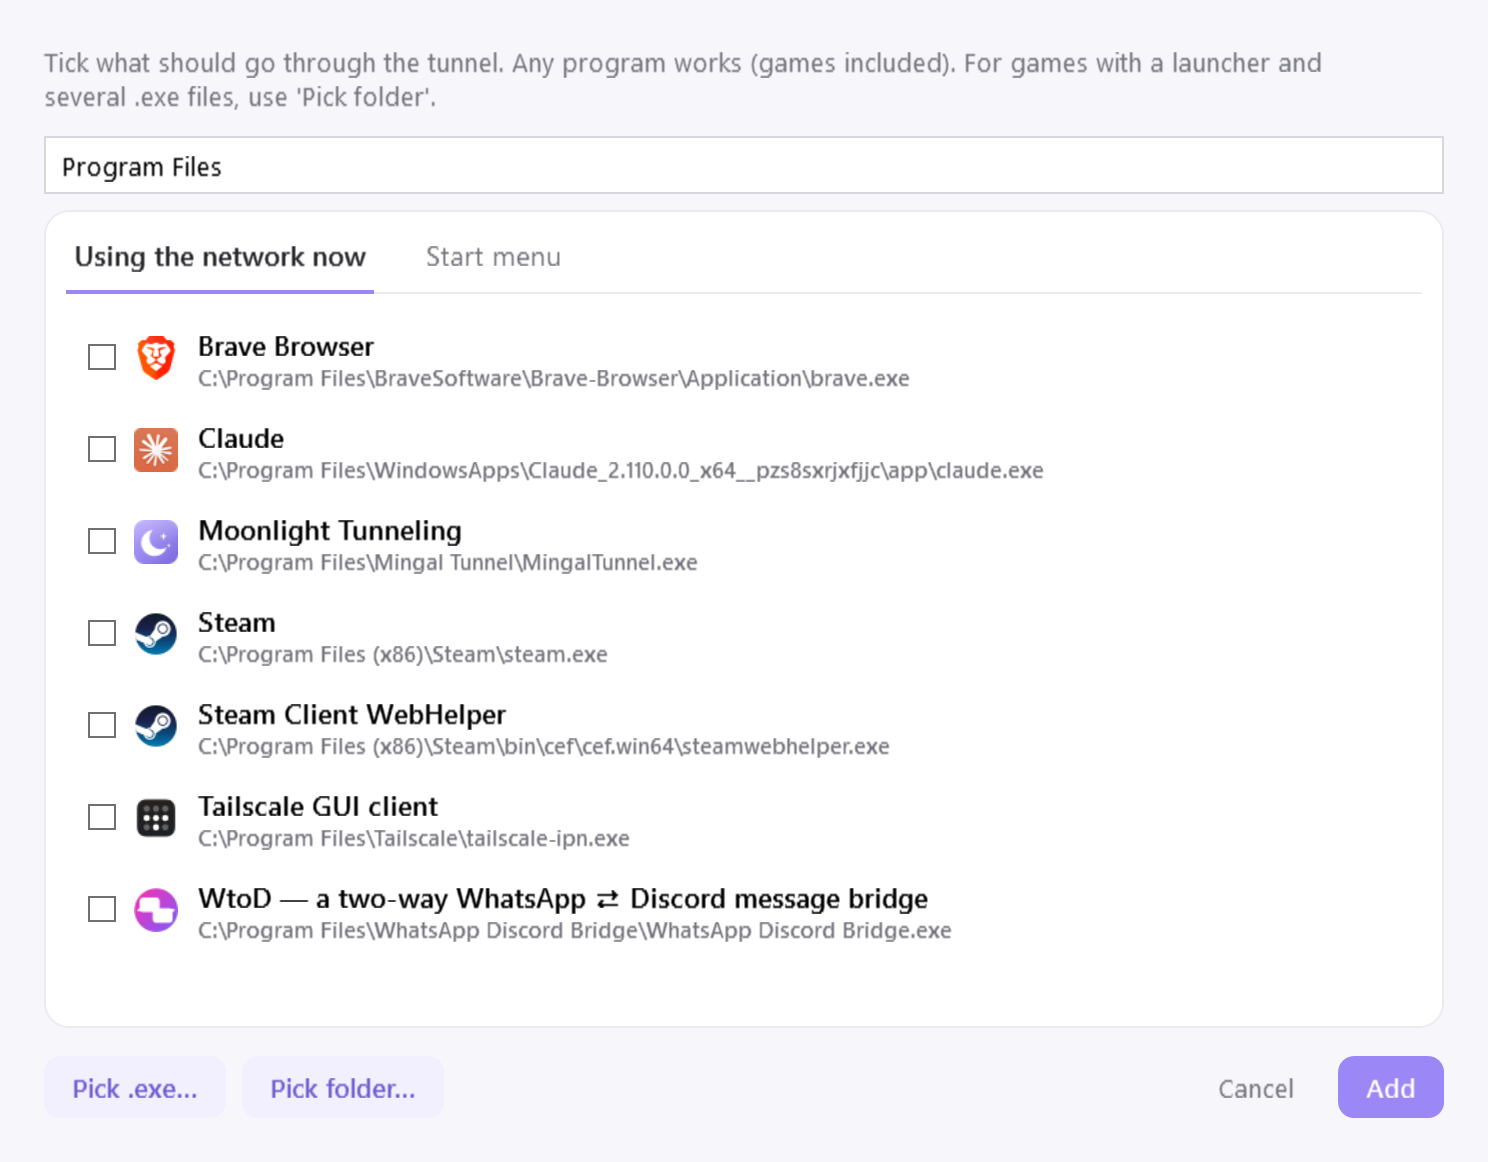
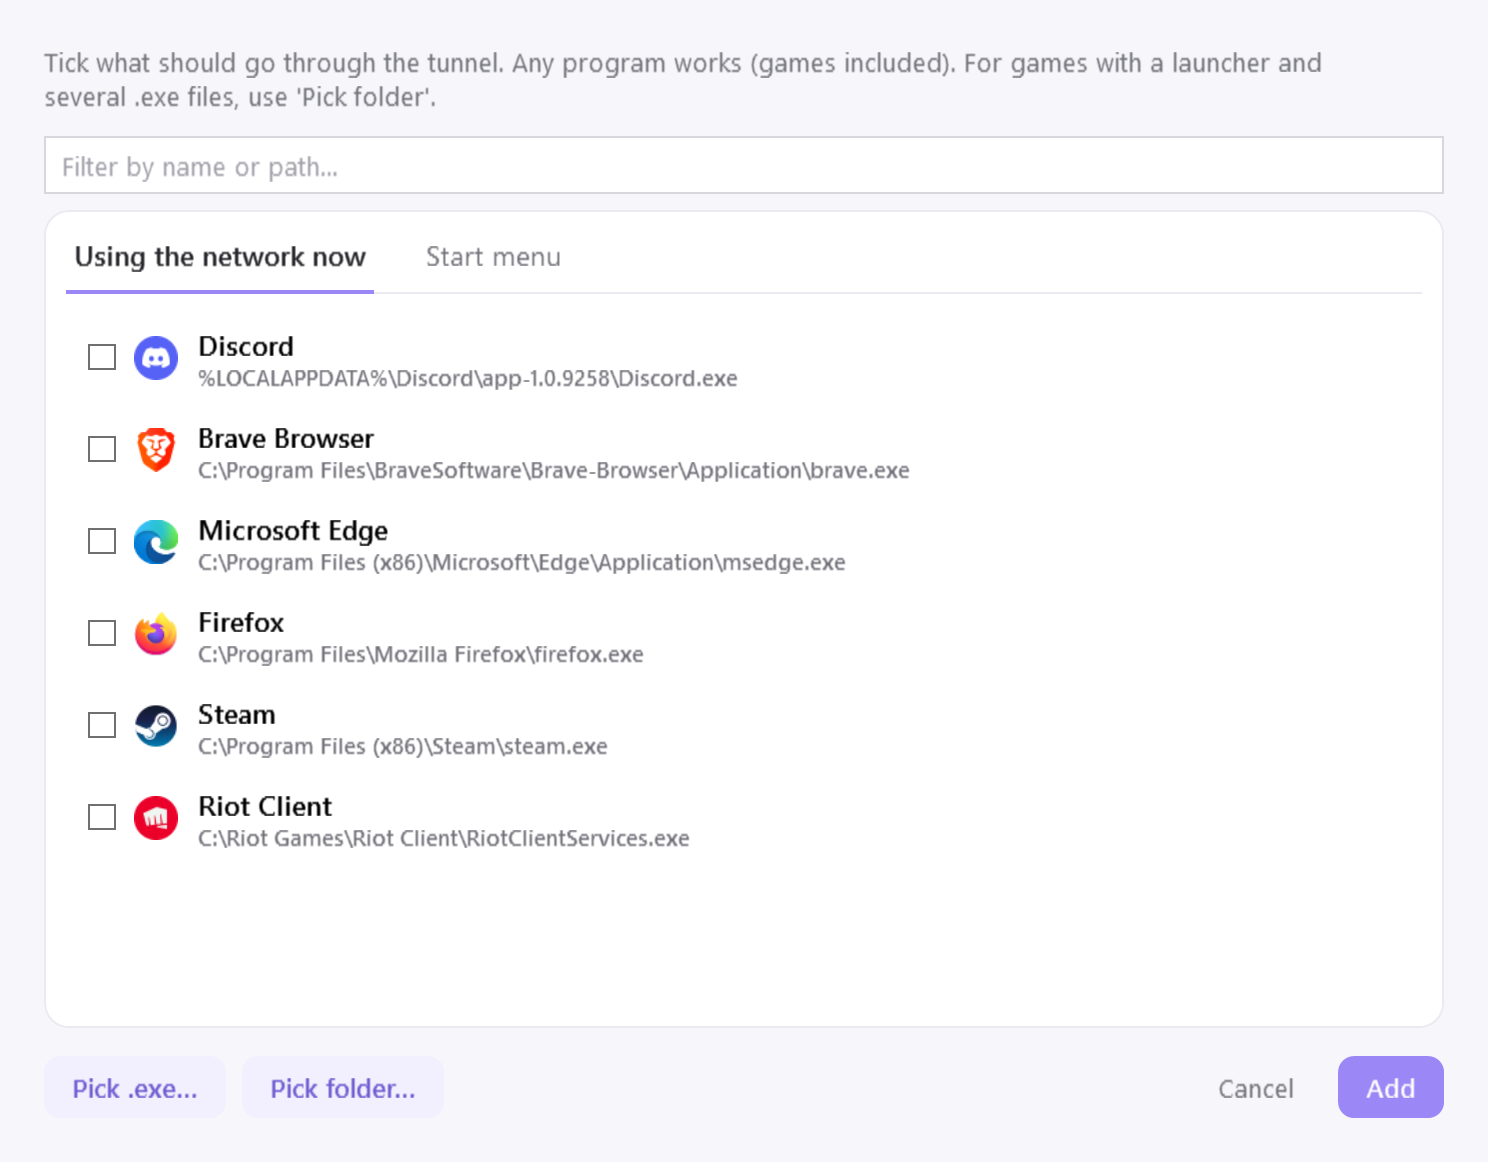
Code review cleanup
- Remove the exit-IP check code left behind when its card was removed
  (view model state, command, public IP lookup in IpCheck).
- Remove other unused members: KillSwitch.EngagedCount, ShellLinks.Create,
  AllowUnsafeBlocks on Platform.
- Translate a leftover Portuguese log prefix; drop old names from the
  rule-set placeholder and the autostart temp file.
- Theme resource keys renamed Pink* -> Accent* to match the palette.
- EnumProcesses buffer grows instead of silently capping at 4096 PIDs.
- Supervisor disposes its network-change timer; unobserved background task
  failures are logged.
- Build is warning-free (xUnit2008, WFO0003 with rationale).
- README 'Add app' screenshot lists well-known apps only.

diff --git a/src/MoonlightTunneling.App/Theme.xaml b/src/MoonlightTunneling.App/Theme.xaml
@@ -1,10 +1,10 @@
 <ResourceDictionary xmlns="http://schemas.microsoft.com/winfx/2006/xaml/presentation"
                     xmlns:x="http://schemas.microsoft.com/winfx/2006/xaml">
 
-    <!-- Brand palette: pastel purple. Key names are historical. -->
-    <SolidColorBrush x:Key="Pink" Color="#9B87F5" />
-    <SolidColorBrush x:Key="PinkDark" Color="#6F5DD3" />
-    <SolidColorBrush x:Key="PinkSoft" Color="#F2EFFE" />
+    <!-- Brand palette: pastel purple -->
+    <SolidColorBrush x:Key="Accent" Color="#9B87F5" />
+    <SolidColorBrush x:Key="AccentDark" Color="#6F5DD3" />
+    <SolidColorBrush x:Key="AccentSoft" Color="#F2EFFE" />
     <SolidColorBrush x:Key="InfoBg" Color="#EEEAFD" />
     <SolidColorBrush x:Key="InfoText" Color="#5746A8" />
     <SolidColorBrush x:Key="WarnBg" Color="#FDF3E1" />
@@ -80,14 +80,14 @@
     </Style>
 
     <Style x:Key="PrimaryButton" TargetType="Button" BasedOn="{StaticResource BaseButton}">
-        <Setter Property="Background" Value="{StaticResource Pink}" />
+        <Setter Property="Background" Value="{StaticResource Accent}" />
         <Setter Property="Foreground" Value="White" />
         <Setter Property="FontWeight" Value="SemiBold" />
     </Style>
 
     <Style x:Key="SecondaryButton" TargetType="Button" BasedOn="{StaticResource BaseButton}">
-        <Setter Property="Background" Value="{StaticResource PinkSoft}" />
-        <Setter Property="Foreground" Value="{StaticResource PinkDark}" />
+        <Setter Property="Background" Value="{StaticResource AccentSoft}" />
+        <Setter Property="Foreground" Value="{StaticResource AccentDark}" />
         <Setter Property="FontWeight" Value="SemiBold" />
     </Style>
 
@@ -99,7 +99,7 @@
 
     <Style x:Key="HeaderButton" TargetType="Button" BasedOn="{StaticResource BaseButton}">
         <Setter Property="Background" Value="White" />
-        <Setter Property="Foreground" Value="{StaticResource PinkDark}" />
+        <Setter Property="Foreground" Value="{StaticResource AccentDark}" />
         <Setter Property="FontWeight" Value="Bold" />
         <Setter Property="FontSize" Value="14" />
         <Setter Property="Padding" Value="22,10" />
@@ -124,7 +124,7 @@
                             <Setter TargetName="Chevron" Property="Text" Value="&#xE70D;" />
                         </Trigger>
                         <Trigger Property="IsMouseOver" Value="True">
-                            <Setter TargetName="Bd" Property="Background" Value="{StaticResource PinkSoft}" />
+                            <Setter TargetName="Bd" Property="Background" Value="{StaticResource AccentSoft}" />
                         </Trigger>
                     </ControlTemplate.Triggers>
                 </ControlTemplate>
@@ -147,7 +147,7 @@
                     </StackPanel>
                     <ControlTemplate.Triggers>
                         <Trigger Property="IsChecked" Value="True">
-                            <Setter TargetName="Track" Property="Background" Value="{StaticResource Pink}" />
+                            <Setter TargetName="Track" Property="Background" Value="{StaticResource Accent}" />
                             <Setter TargetName="Thumb" Property="HorizontalAlignment" Value="Right" />
                             <Setter TargetName="Thumb" Property="Margin" Value="0,0,3,0" />
                         </Trigger>
@@ -204,7 +204,7 @@
                     </Border>
                     <ControlTemplate.Triggers>
                         <Trigger Property="IsSelected" Value="True">
-                            <Setter TargetName="Bd" Property="BorderBrush" Value="{StaticResource Pink}" />
+                            <Setter TargetName="Bd" Property="BorderBrush" Value="{StaticResource Accent}" />
                             <Setter Property="Foreground" Value="{StaticResource Ink}" />
                             <Setter Property="FontWeight" Value="SemiBold" />
                         </Trigger>

diff --git a/src/MoonlightTunneling.App/MainWindow.xaml b/src/MoonlightTunneling.App/MainWindow.xaml
@@ -93,7 +93,7 @@
                     </Border>
 
                     <Border Grid.Row="3" Style="{StaticResource CardBorder}" Margin="0,12,0,0"
-                            Background="{StaticResource PinkSoft}" BorderBrush="{StaticResource Pink}"
+                            Background="{StaticResource AccentSoft}" BorderBrush="{StaticResource Accent}"
                             Visibility="{Binding HasDiscord, Converter={StaticResource BoolVis}}">
                         <DockPanel>
                             <Button DockPanel.Dock="Left" Style="{StaticResource PrimaryButton}" Content="Go Live boost" MinWidth="150"
@@ -216,7 +216,7 @@
                     </Grid.RowDefinitions>
                     <DockPanel>
                         <Button Style="{StaticResource PrimaryButton}" Content="Import .conf" Command="{Binding ImportProfileCommand}" DockPanel.Dock="Left" />
-                        <Button Style="{StaticResource GhostButton}" Content="Where do I get a Proton .conf?" Command="{Binding ProtonConfLinkCommand}" DockPanel.Dock="Right" Foreground="{StaticResource PinkDark}" />
+                        <Button Style="{StaticResource GhostButton}" Content="Where do I get a Proton .conf?" Command="{Binding ProtonConfLinkCommand}" DockPanel.Dock="Right" Foreground="{StaticResource AccentDark}" />
                         <TextBlock Style="{StaticResource Hint}" VerticalAlignment="Center" Margin="14,0"
                                    Text="Any WireGuard works: Proton, Mullvad, AirVPN, your own server… The private key is encrypted for your Windows user." />
                     </DockPanel>
@@ -239,9 +239,9 @@
                                                 <StackPanel Orientation="Horizontal">
                                                     <TextBox Text="{Binding Name, UpdateSourceTrigger=LostFocus}" FontSize="15" FontWeight="SemiBold" MinWidth="260" BorderThickness="0,0,0,1" Background="Transparent"
                                                              ToolTip="Click to rename" />
-                                                    <Border Background="{StaticResource PinkSoft}" CornerRadius="10" Padding="8,2" Margin="10,0,0,0" VerticalAlignment="Center"
+                                                    <Border Background="{StaticResource AccentSoft}" CornerRadius="10" Padding="8,2" Margin="10,0,0,0" VerticalAlignment="Center"
                                                             Visibility="{Binding IsActive, Converter={StaticResource BoolVis}}">
-                                                        <TextBlock Text="in use" Foreground="{StaticResource PinkDark}" FontWeight="SemiBold" FontSize="11" />
+                                                        <TextBlock Text="in use" Foreground="{StaticResource AccentDark}" FontWeight="SemiBold" FontSize="11" />
                                                     </Border>
                                                 </StackPanel>
                                                 <TextBlock Text="{Binding EndpointText}" Style="{StaticResource Hint}" Margin="0,6,0,0" />

diff --git a/src/MoonlightTunneling.App/ViewModels/MainViewModel.cs b/src/MoonlightTunneling.App/ViewModels/MainViewModel.cs
@@ -21,9 +21,7 @@ public sealed class MainViewModel : ObservableObject
 
     private string _statusTitle = "Off", _statusDetail = "The tunnel is off. No app goes through the VPN.";
     private Brush _statusBrush = Palette.Gray;
-    private string _latencyText = "—", _vpnIp = "—", _directIp = "—", _ipVerdict = "Click Check to compare the VPN exit IP with your normal IP.";
-    private Brush _ipVerdictBrush = Palette.Gray;
-    private bool _checkingIp;
+    private string _latencyText = "—";
     private string? _killSwitchBanner;
     private int _selectedTab;
     private ProfileItem? _activeProfile;
@@ -56,7 +54,6 @@ public sealed class MainViewModel : ObservableObject
         _tunnel.LatencyChanged += ms => _ui.BeginInvoke(() => LatencyText = ms is int v ? $"{v} ms" : "no response");
 
         ToggleTunnelCommand = new AsyncCommand(ToggleTunnelAsync, () => _tunnel.State != TunnelState.Starting);
-        CheckIpCommand = new AsyncCommand(CheckIpAsync, () => !_checkingIp);
         AddAppCommand = new RelayCommand(AddApps);
         ReapplyCommand = new AsyncCommand(ReapplyAsync, () => _tunnel.IsTunUp);
         ImportProfileCommand = new RelayCommand(ImportProfiles);
@@ -84,7 +81,6 @@ public sealed class MainViewModel : ObservableObject
     public ObservableCollection<LogLine> Log { get; } = [];
 
     public ICommand ToggleTunnelCommand { get; }
-    public ICommand CheckIpCommand { get; }
     public ICommand AddAppCommand { get; }
     public ICommand ReapplyCommand { get; }
     public ICommand ImportProfileCommand { get; }
@@ -101,17 +97,12 @@ public sealed class MainViewModel : ObservableObject
     public ICommand BoostReleaseCommand { get; }
 
     // ---------- status ----------
-    public TunnelState State => _tunnel.State;
     public bool IsTunnelActive => _tunnel.IsActive;
     public string ToggleText => _tunnel.State == TunnelState.Starting ? "Connecting…" : _tunnel.IsActive ? "Turn tunnel off" : "Turn tunnel on";
     public string StatusTitle { get => _statusTitle; private set => Set(ref _statusTitle, value); }
     public string StatusDetail { get => _statusDetail; private set => Set(ref _statusDetail, value); }
     public Brush StatusBrush { get => _statusBrush; private set => Set(ref _statusBrush, value); }
     public string LatencyText { get => _latencyText; private set => Set(ref _latencyText, value); }
-    public string VpnIpText { get => _vpnIp; private set => Set(ref _vpnIp, value); }
-    public string DirectIpText { get => _directIp; private set => Set(ref _directIp, value); }
-    public string IpVerdict { get => _ipVerdict; private set => Set(ref _ipVerdict, value); }
-    public Brush IpVerdictBrush { get => _ipVerdictBrush; private set => Set(ref _ipVerdictBrush, value); }
     public string ProxyText => $"local proxy 127.0.0.1:{Settings.ProxyPort}";
     public string? KillSwitchBanner { get => _killSwitchBanner; private set { if (Set(ref _killSwitchBanner, value)) OnPropertyChanged(nameof(HasKillSwitchBanner)); } }
     public bool HasKillSwitchBanner => _killSwitchBanner != null;
@@ -491,7 +482,6 @@ public sealed class MainViewModel : ObservableObject
         StatusDetail = s == TunnelState.Stopped ? "The tunnel is off. No app goes through the VPN." : detail;
         if (s is TunnelState.Stopped or TunnelState.Failed) LatencyText = "—";
         UpdatePortHint();
-        OnPropertyChanged(nameof(State));
         OnPropertyChanged(nameof(IsTunnelActive));
         OnPropertyChanged(nameof(ToggleText));
         CommandManager.InvalidateRequerySuggested();
@@ -509,36 +499,6 @@ public sealed class MainViewModel : ObservableObject
         KillSwitchBanner = !up && blocked.Count > 0 && IsAdmin
             ? $"Kill-switch engaged: {string.Join(", ", blocked)} {(blocked.Count == 1 ? "has" : "have")} no internet until the tunnel connects."
             : null;
-    }
-
-    private async Task CheckIpAsync()
-    {
-        _checkingIp = true;
-        IpVerdict = "Checking…";
-        IpVerdictBrush = Palette.Gray;
-        try
-        {
-            var directTask = IpCheck.GetPublicIpAsync(null);
-            var vpnTask = _tunnel.IsTunUp ? IpCheck.GetPublicIpAsync(_tunnel.ProxyPort) : Task.FromResult<string?>(null);
-            var direct = await directTask;
-            var vpn = await vpnTask;
-            DirectIpText = direct ?? "failed";
-            VpnIpText = _tunnel.IsTunUp ? vpn ?? "no response" : "tunnel off";
-            (IpVerdict, IpVerdictBrush) = (vpn, direct) switch
-            {
-                (null, _) when !_tunnel.IsTunUp => ("Turn the tunnel on to see the VPN exit IP.", Palette.Gray),
-                (null, _) => ("The VPN didn't answer. Tunneled apps have no way out right now.", Palette.Red),
-                (_, null) => ("VPN is fine; couldn't read your normal IP.", Palette.Yellow),
-                var (v, d) when v == d => ("⚠ Both IPs are the same: the VPN isn't changing the exit.", Palette.Red),
-                _ => ("✔ Tunneled apps exit through a different IP. The rest of the PC stays on your normal one.", Palette.Green),
-            };
-            AppLog.Info($"Exit IP: VPN {VpnIpText} · normal {DirectIpText}.");
-        }
-        finally
-        {
-            _checkingIp = false;
-            CommandManager.InvalidateRequerySuggested();
-        }
     }
 
     // ============================================================

diff --git a/src/MoonlightTunneling.Core/IpCheck.cs b/src/MoonlightTunneling.Core/IpCheck.cs
@@ -5,15 +5,13 @@ using System.Net;
 namespace MoonlightTunneling.Core;
 
 /// <summary>
-/// The only third-party requests the app makes: the public-IP lookup the user
-/// asks for, and a tiny 204 probe through the VPN that doubles as health check.
+/// The only request the app makes on its own: a tiny 204 probe sent through the
+/// VPN, used as the health check and the latency figure.
 /// </summary>
 public static class IpCheck
 {
-    private static readonly string[] IpServices = ["https://api.ipify.org", "https://ipv4.icanhazip.com"];
     private const string ProbeUrl = "http://cp.cloudflare.com/generate_204";
 
-    private static readonly HttpClient Direct = new(new SocketsHttpHandler { UseProxy = false }) { Timeout = TimeSpan.FromSeconds(10) };
     private static readonly ConcurrentDictionary<int, HttpClient> Proxied = new();
 
     private static HttpClient ViaProxy(int port) => Proxied.GetOrAdd(port, p => new HttpClient(new SocketsHttpHandler
@@ -25,22 +23,6 @@ public static class IpCheck
         ConnectTimeout = TimeSpan.FromSeconds(6),
     })
     { Timeout = TimeSpan.FromSeconds(10) });
-
-    /// <summary>Public IP; through the local proxy (= VPN exit) when a port is given, otherwise the normal route.</summary>
-    public static async Task<string?> GetPublicIpAsync(int? proxyPort)
-    {
-        var client = proxyPort is int p ? ViaProxy(p) : Direct;
-        foreach (var url in IpServices)
-        {
-            try
-            {
-                var s = (await client.GetStringAsync(url)).Trim();
-                if (IPAddress.TryParse(s, out _)) return s;
-            }
-            catch { }
-        }
-        return null;
-    }
 
     /// <summary>Round trip of a 204 request through the VPN, in ms; null when the VPN doesn't answer.</summary>
     public static async Task<int?> MeasureLatencyAsync(int proxyPort, TimeSpan? timeout = null)

diff --git a/src/MoonlightTunneling.App/App.xaml.cs b/src/MoonlightTunneling.App/App.xaml.cs
@@ -50,6 +50,12 @@ public partial class App : Application
             AppLog.Error($"Unexpected error: {ex.GetType().Name}: {ex.Message}{inner} {where}".Trim());
             a.Handled = true;
         };
+        // Fire-and-forget work (kill-switch sync, live refresh) must never fail silently.
+        TaskScheduler.UnobservedTaskException += (_, a) =>
+        {
+            AppLog.Error("Background task failed: " + a.Exception.GetBaseException().Message);
+            a.SetObserved();
+        };
         SessionEnding += (_, _) =>
         {
             // Put kill-switch rules back before Windows ends the session, so an
@@ -141,12 +147,13 @@ public partial class App : Application
             Render(w, Path.Combine(dir, $"{names[tab]}.png"));
         }
 
-        var add = new AddAppWindow { Owner = w, WindowStartupLocation = WindowStartupLocation.Manual, Left = -4000, Top = 0, ShowInTaskbar = false };
+        // Well-known apps only, instead of everything that happens to run on the dev box.
+        var demo = AppCatalog.DetectInstalledCurated().Select(AppCatalog.IconSource).OfType<string>().ToList();
+        foreach (var extra in new[] { @"C:\Program Files (x86)\Steam\steam.exe", @"C:\Riot Games\Riot Client\RiotClientServices.exe" })
+            if (File.Exists(extra)) demo.Add(extra);
+        var add = new AddAppWindow { Owner = w, WindowStartupLocation = WindowStartupLocation.Manual, Left = -4000, Top = 0, ShowInTaskbar = false, DemoPaths = demo };
         add.Show();
-        await Task.Delay(6000);
-        // Keep the README picture to well-known apps instead of everything running on the dev box.
-        add.Filter.Text = "Program Files";
-        await Task.Delay(500);
+        await Task.Delay(2500);
         Render(add, Path.Combine(dir, "add-app.png"));
         add.Close();
         _exiting = true;

diff --git a/src/MoonlightTunneling.App/AddAppWindow.xaml.cs b/src/MoonlightTunneling.App/AddAppWindow.xaml.cs
@@ -33,6 +33,11 @@ public partial class AddAppWindow : Window
 
     public List<TunneledApp> Result { get; } = [];
 
+#if DEBUG
+    /// <summary>Screenshot mode: show these executables instead of scanning the machine.</summary>
+    public IReadOnlyList<string>? DemoPaths { get; init; }
+#endif
+
     public AddAppWindow()
     {
         InitializeComponent();
@@ -49,6 +54,15 @@ public partial class AddAppWindow : Window
         var self = Environment.ProcessPath ?? "";
         var windir = Environment.GetFolderPath(Environment.SpecialFolder.Windows);
 
+#if DEBUG
+        if (DemoPaths != null)
+        {
+            foreach (var p in DemoPaths) _network.Add(new Candidate { Name = AppCatalog.FriendlyName(p), Path = p, Icon = IconCache.Get(p) });
+            NetworkLoading.Visibility = Visibility.Collapsed;
+            StartMenuLoading.Visibility = Visibility.Collapsed;
+            return;
+        }
+#endif
         var net = await Task.Run(() =>
         {
             var pids = ConnectionTables.PidsWithSockets();

diff --git a/src/MoonlightTunneling.Platform/ProcessPaths.cs b/src/MoonlightTunneling.Platform/ProcessPaths.cs
@@ -27,8 +27,15 @@ public static class ProcessPaths
     /// <summary>All processes whose image path can be read. Cheap enough to poll every few seconds.</summary>
     public static List<ProcessEntry> Snapshot()
     {
-        var pids = new uint[4096];
-        if (!Native.EnumProcesses(pids, pids.Length * sizeof(uint), out int needed)) return [];
+        // EnumProcesses can't say how much room it needed: grow until it stops filling the buffer.
+        var pids = new uint[1024];
+        int needed;
+        while (true)
+        {
+            if (!Native.EnumProcesses(pids, pids.Length * sizeof(uint), out needed)) return [];
+            if (needed < pids.Length * sizeof(uint)) break;
+            pids = new uint[pids.Length * 2];
+        }
         int count = needed / sizeof(uint);
         var list = new List<ProcessEntry>(count);
         for (int i = 0; i < count; i++)

diff --git a/src/MoonlightTunneling.Platform/ShellLinks.cs b/src/MoonlightTunneling.Platform/ShellLinks.cs
@@ -61,23 +61,6 @@ public static class ShellLinks
         }
     }
 
-    public static void Create(string lnkPath, string target, string arguments, string workingDir, string? icon)
-    {
-        var link = (IShellLinkW)new CShellLink();
-        try
-        {
-            link.SetPath(target);
-            link.SetArguments(arguments);
-            link.SetWorkingDirectory(workingDir);
-            if (icon != null) link.SetIconLocation(icon, 0);
-            ((IPersistFile)link).Save(lnkPath, true);
-        }
-        finally
-        {
-            Marshal.FinalReleaseComObject(link);
-        }
-    }
-
     /// <summary>Start Menu shortcuts (user + all users) that point at an existing .exe.</summary>
     public static List<ShortcutInfo> ScanStartMenu()
     {

diff --git a/tests/MoonlightTunneling.Core.Tests/PathPatternTests.cs b/tests/MoonlightTunneling.Core.Tests/PathPatternTests.cs
@@ -43,8 +43,8 @@ public class PathPatternTests
         var p = PathPattern.TryStorePackagePattern(@"C:\Program Files\WindowsApps\5319275A.WhatsAppDesktop_2.2450.6.0_x64__cv1g1gvanyjgm\WhatsApp.exe");
         Assert.NotNull(p);
         var rx = PathPattern.ToRegex(p!);
-        Assert.True(rx.IsMatch(@"C:\Program Files\WindowsApps\5319275A.WhatsAppDesktop_2.2511.1.0_x64__cv1g1gvanyjgm\WhatsApp.exe"));
-        Assert.False(rx.IsMatch(@"C:\Program Files\WindowsApps\Other_1.0_x64__cv1g1gvanyjgm\WhatsApp.exe"));
+        Assert.Matches(rx, @"C:\Program Files\WindowsApps\5319275A.WhatsAppDesktop_2.2511.1.0_x64__cv1g1gvanyjgm\WhatsApp.exe");
+        Assert.DoesNotMatch(rx, @"C:\Program Files\WindowsApps\Other_1.0_x64__cv1g1gvanyjgm\WhatsApp.exe");
     }
 
     [Fact]

diff --git a/src/MoonlightTunneling.Core/RuleSetWriter.cs b/src/MoonlightTunneling.Core/RuleSetWriter.cs
@@ -15,7 +15,7 @@ public static class RuleSetWriter
     /// sing-box decides at startup whether it needs process lookups at all, and
     /// an empty set would leave that off for rules added later.
     /// </summary>
-    public const string Placeholder = "^MINGAL_TUNNEL_NO_APP_SELECTED$";
+    public const string Placeholder = "^MOONLIGHT_TUNNELING_NO_APP_SELECTED$";
 
     public static string Build(IEnumerable<TunneledApp> apps)
     {

diff --git a/src/MoonlightTunneling.Platform/ScheduledTaskAutostart.cs b/src/MoonlightTunneling.Platform/ScheduledTaskAutostart.cs
@@ -51,7 +51,7 @@ public static class ScheduledTaskAutostart
               </Actions>
             </Task>
             """;
-        var tmp = Path.Combine(Path.GetTempPath(), $"mingaltunnel-task-{Guid.NewGuid():N}.xml");
+        var tmp = Path.Combine(Path.GetTempPath(), $"moonlight-tunneling-task-{Guid.NewGuid():N}.xml");
         await File.WriteAllTextAsync(tmp, xml, Encoding.Unicode);
         try
         {

diff --git a/src/MoonlightTunneling.App/ViewModels/Observable.cs b/src/MoonlightTunneling.App/ViewModels/Observable.cs
@@ -62,7 +62,7 @@ public sealed class AsyncCommand(Func<object?, Task> run, Func<object?, bool>? c
         }
         catch (Exception ex)
         {
-            Core.AppLog.Error("Erro: " + ex.Message);
+            Core.AppLog.Error("Error: " + ex.Message);
         }
         finally
         {
